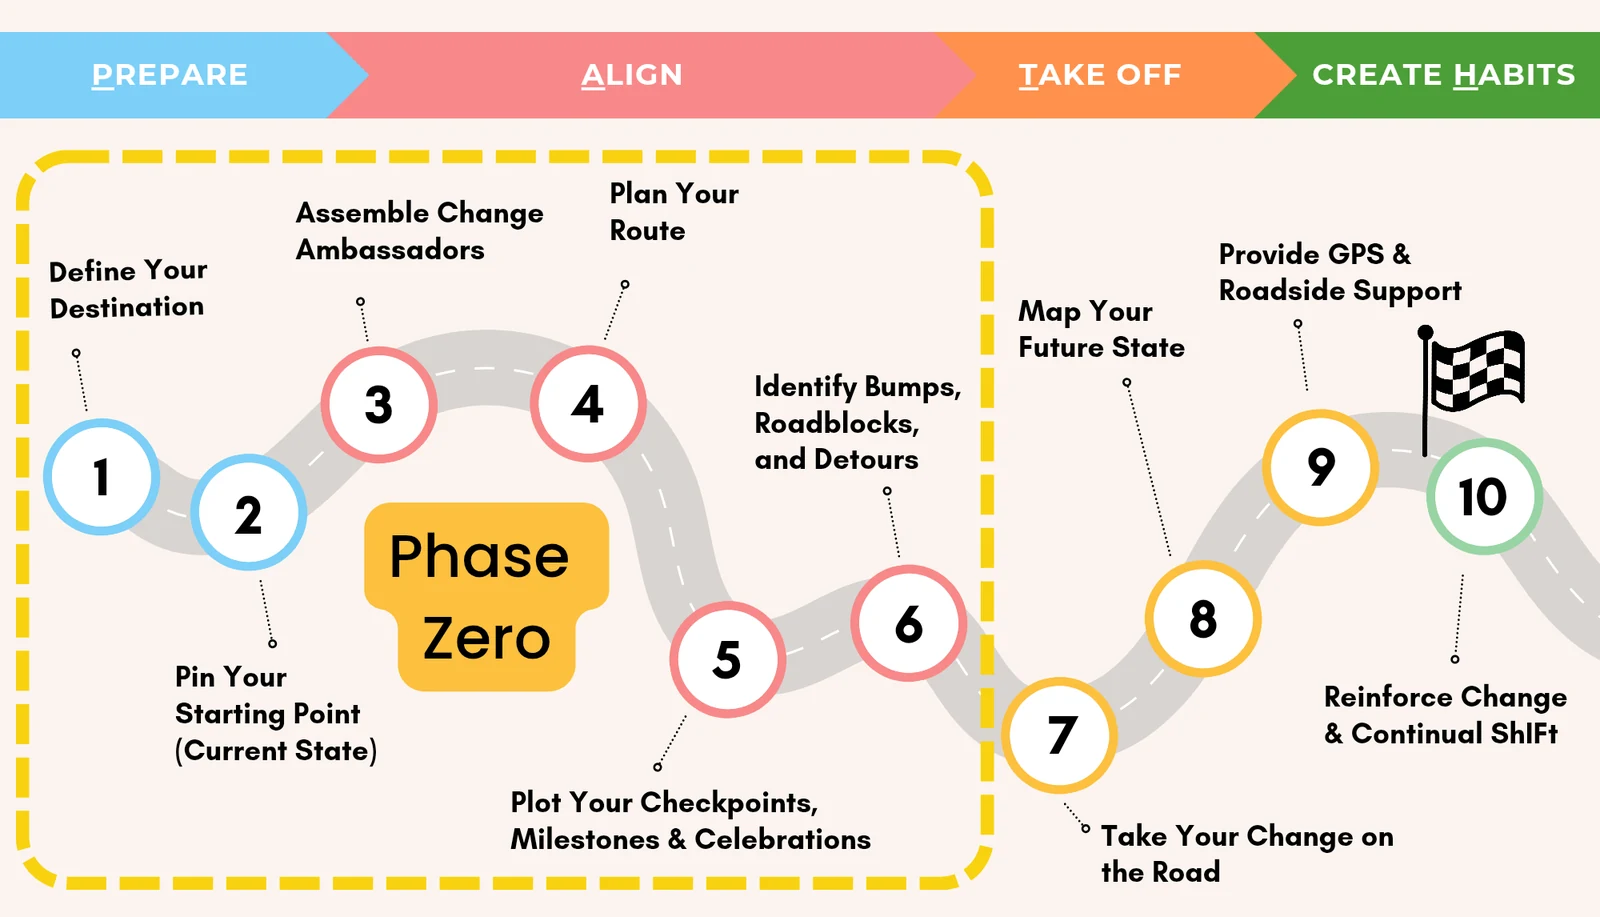
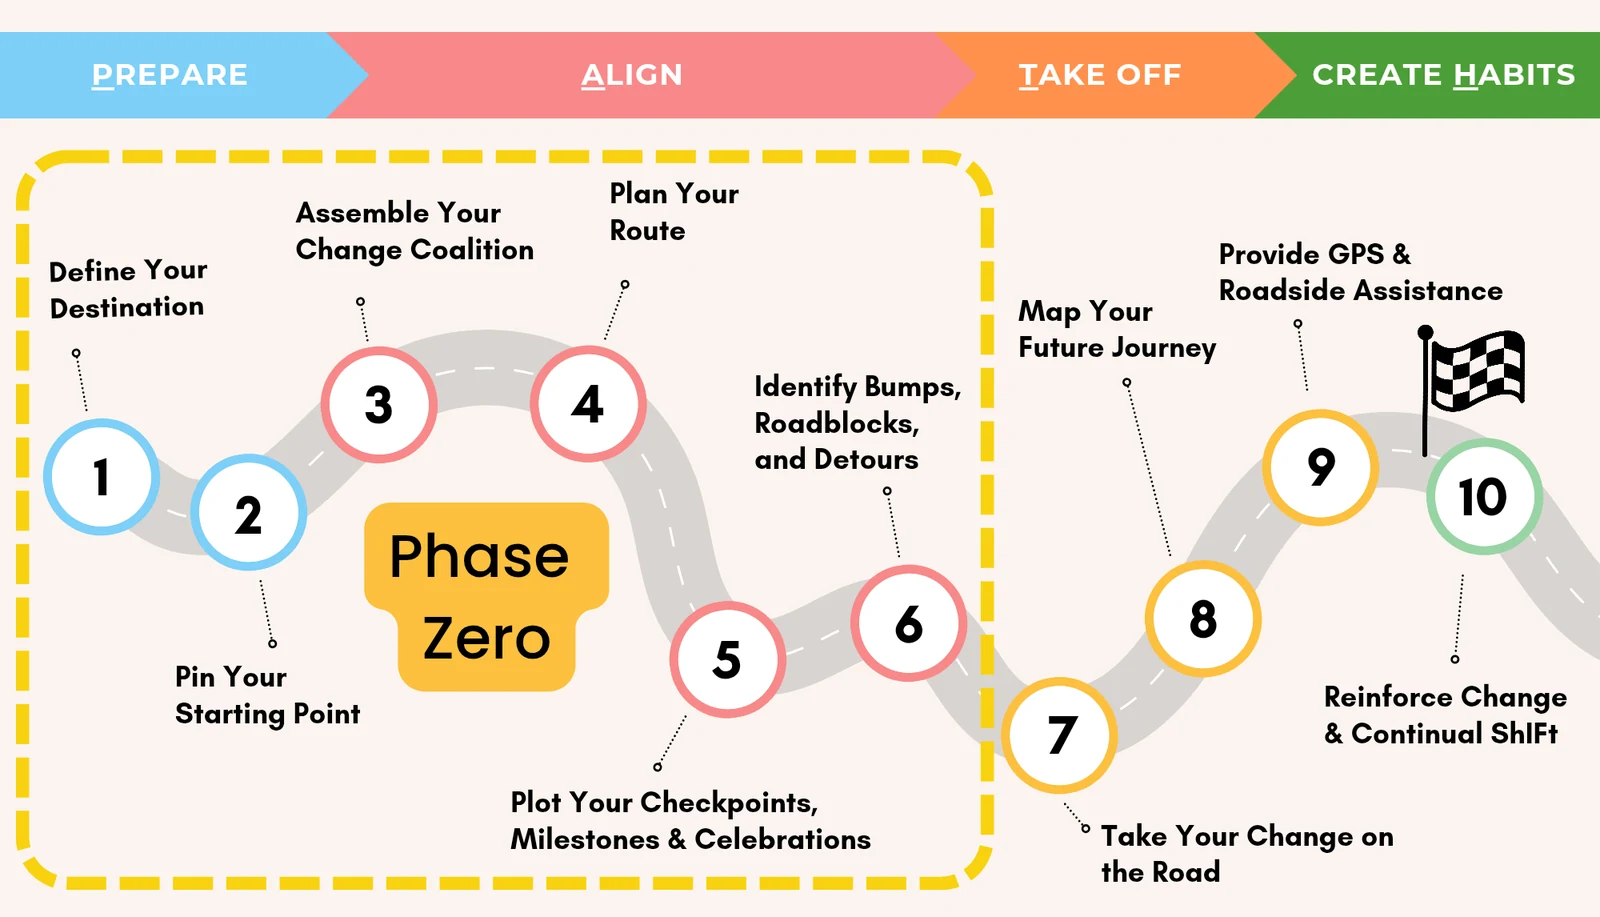
The P.A.T.H.: PPS Admin's updated road graphic and step names
PPS Admin updated the graphic on 2026-11-06. Four step names change:
- 2 "Pin Your Starting Point" (drops "(Current State)");
- 3 "Assemble Your Change Coalition";
- 8 "Map Your Future Journey";
- 9 "Provide GPS & Roadside Assistance".
Steps 4, 5, 7 and 10 keep the graphic's road wording. The text list of the
ten steps and the prerendered copy follow the graphic. The Brand Bible's
§5.5 is to be updated to match (PPS-DEC-0027).

Claude-Session: https://claude.ai/code/session_01JgKiGRrGVaKNmkcijaTaA7

diff --git a/src/pages/pps/v3/ThePath.tsx b/src/pages/pps/v3/ThePath.tsx
@@ -103,17 +103,18 @@ const STAGES = [
 ];
 
 /**
- * The ten steps on PPS Admin's road graphic (2026-11-06), worded as the graphic words them.
+ * The ten steps on PPS Admin's road graphic (updated 2026-11-06), worded as the graphic words them;
+ * the Brand Bible's §5.5 is to follow (PPS-DEC-0027).
  * Steps 1 to 6, Prepare and Align, are Phase Zero (PPS-DEC-0027). The list is what phones
  * and screen readers get: the graphic's text is too small to read on a phone.
  */
 const ROAD_STEPS: { stage: string; dot: string; steps: [number, string][] }[] = [
-  { stage: "Prepare", dot: "bg-prepare", steps: [[1, "Define Your Destination"], [2, "Pin Your Starting Point (Current State)"]] },
+  { stage: "Prepare", dot: "bg-prepare", steps: [[1, "Define Your Destination"], [2, "Pin Your Starting Point"]] },
   {
     stage: "Align",
     dot: "bg-align",
     steps: [
-      [3, "Assemble Change Ambassadors"],
+      [3, "Assemble Your Change Coalition"],
       [4, "Plan Your Route"],
       [5, "Plot Your Checkpoints, Milestones & Celebrations"],
       [6, "Identify Bumps, Roadblocks, and Detours"],
@@ -122,7 +123,7 @@ const ROAD_STEPS: { stage: string; dot: string; steps: [number, string][] }[] = 
   {
     stage: "Take Off",
     dot: "bg-gold",
-    steps: [[7, "Take Your Change on the Road"], [8, "Map Your Future State"], [9, "Provide GPS & Roadside Support"]],
+    steps: [[7, "Take Your Change on the Road"], [8, "Map Your Future Journey"], [9, "Provide GPS & Roadside Assistance"]],
   },
   { stage: "Habits", dot: "bg-habits", steps: [[10, "Reinforce Change & Continual ShIFt"]] },
 ];

diff --git a/src/pages/pps/v3/__tests__/ThePath.test.tsx b/src/pages/pps/v3/__tests__/ThePath.test.tsx
@@ -130,6 +130,10 @@ describe("ThePath (draft)", () => {
     expect(numbered.map((li) => li.textContent?.match(/^\d+/)?.[0])).toEqual(["1", "2", "3", "4", "5", "6", "7", "8", "9", "10"]);
     expect(steps.getByText("Define Your Destination")).toBeInTheDocument();
     expect(steps.getByText("Take Your Change on the Road")).toBeInTheDocument();
+    // The graphic's wording as updated by PPS Admin (2026-11-06).
+    for (const name of ["Assemble Your Change Coalition", "Plan Your Route", "Map Your Future Journey", "Provide GPS & Roadside Assistance"]) {
+      expect(steps.getByText(name)).toBeInTheDocument();
+    }
     const links = screen.getAllByRole("link", { name: "Phase Zero™" });
     expect(links.length).toBeGreaterThanOrEqual(2);
     for (const link of links) expect(link).toHaveAttribute("href", "/phase-zero");
